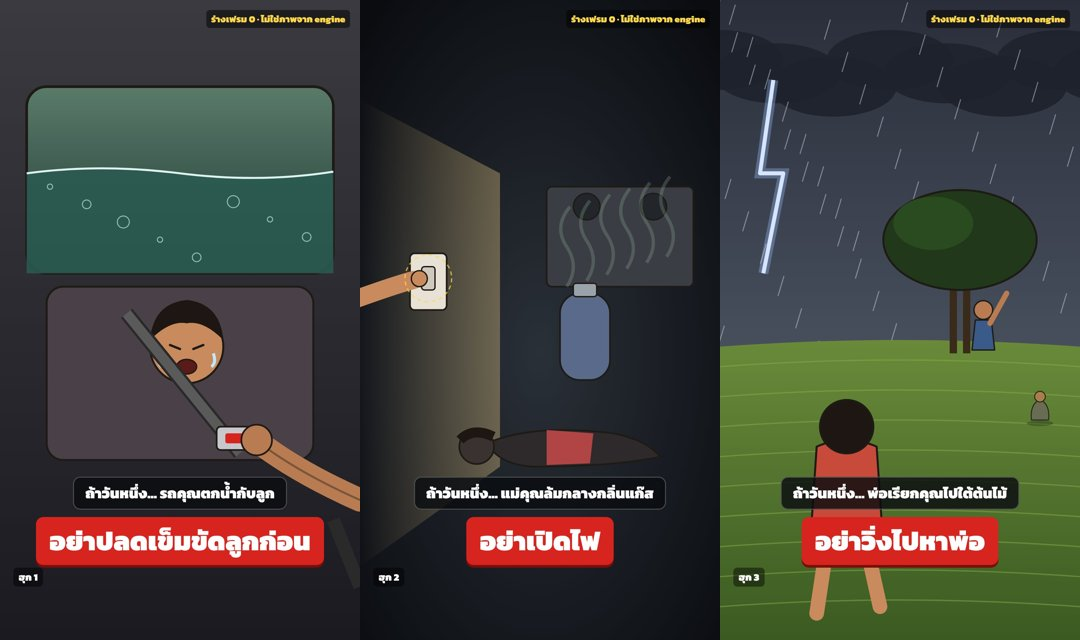
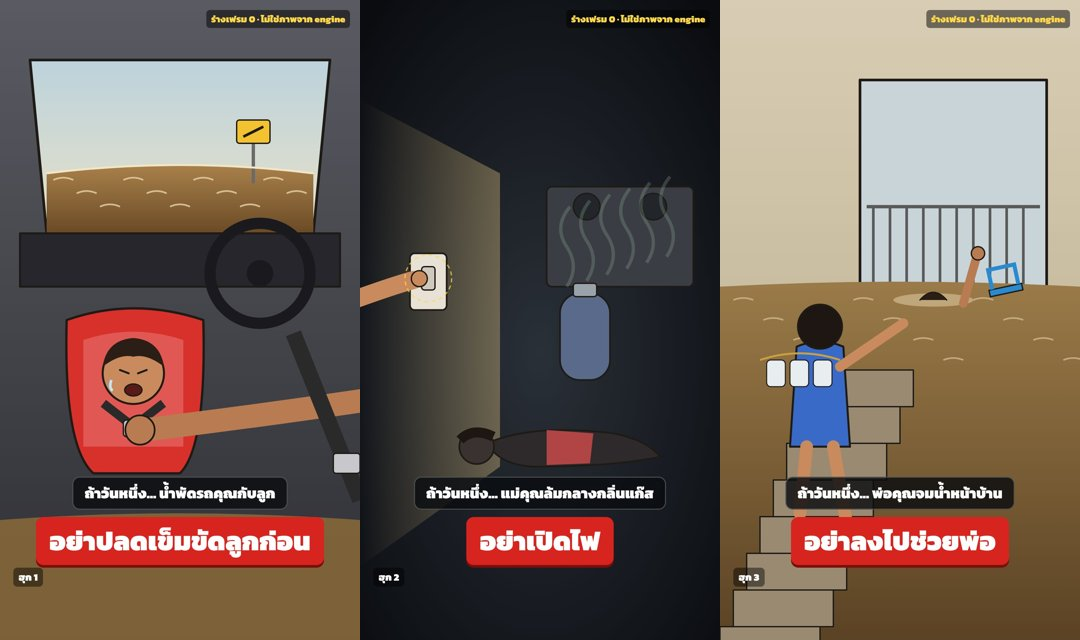
hooks 7 Nov v2: car hook moved to a daytime flash-flood road (car seat, mother driving), gas script locked off first aid, lightning replaced by father drowning in a flooded house
Claude-Session: https://claude.ai/code/session_017iwyCvx1zDsQSsZQNMKKUs

diff --git a/video/release/hooks/candidates/2026-11-07/src/frames.py b/video/release/hooks/candidates/2026-11-07/src/frames.py
@@ -21,27 +21,32 @@ html,body{{margin:0;width:1080px;height:1920px;overflow:hidden;background:#000}}
 def ln(w=4): return f'stroke="{INK}" stroke-width="{w}" stroke-linejoin="round" stroke-linecap="round"'
 
 
-# ---------------- hook 1: car into a canal — mother's hand reaching back to her son's buckle, water at the window line
-h1 = f"""<defs><linearGradient id="w" x1="0" y1="0" x2="0" y2="1"><stop offset="0" stop-color="#5a7a6a"/><stop offset="1" stop-color="#1e3a34"/></linearGradient>
-<linearGradient id="in" x1="0" y1="0" x2="0" y2="1"><stop offset="0" stop-color="#3a3a40"/><stop offset="1" stop-color="#1a1a20"/></linearGradient></defs>
-<rect width="1080" height="1920" fill="url(#in)"/>
-<!-- side window: water rising outside, bubbles -->
-<rect x="80" y="260" width="920" height="560" rx="60" fill="url(#w)" {ln(8)}/>
-<path d="M80,520Q300,490 540,520T1000,515V820H80Z" fill="#2a5a50" opacity=".9"/>
-{''.join(f'<circle cx="{150+k*110}" cy="{560+(k*53)%220}" r="{8+k%3*5}" fill="none" stroke="#bfe8de" stroke-width="3" opacity=".7"/>' for k in range(8))}
-<path d="M80,520Q300,490 540,520T1000,515" stroke="#dff4ee" stroke-width="6" fill="none"/>
-<!-- rear seat: the boy in his seat, belt across -->
-<rect x="140" y="860" width="800" height="520" rx="50" fill="#4a4048" {ln(6)}/>
-<g transform="translate(560,1040)"><circle r="110" fill="#c98a5e" {ln(6)}/><path d="M-110,-20Q-100,-130 0,-140Q100,-130 110,-20Q50,-80 0,-70Q-50,-80 -110,-20Z" fill="#1e1612"/>
-<path d="M-50,-5l30,12M50,-5l-30,12" {ln(7)}/><ellipse cy="60" rx="30" ry="22" fill="#5a1a1a" {ln(4)}/><path d="M-80,20q-10,30 6,40M80,20q10,30 -6,40" stroke="#bfe8ff" stroke-width="9" fill="none"/></g>
-<path d="M380,940L720,1360" stroke="#2a2a2a" stroke-width="44"/><path d="M380,940L720,1360" stroke="#5a5a5a" stroke-width="30"/>
-<rect x="650" y="1280" width="110" height="70" rx="12" fill="#c8c8cc" {ln(5)}/><rect x="676" y="1300" width="58" height="30" rx="6" fill="#d8241e"/>
-<!-- mother's arm reaching from the front seat to the buckle (the lure) -->
-<path d="M1080,1500Q900,1420 780,1330" stroke="#b97c52" stroke-width="70" stroke-linecap="round" fill="none"/>
-<path d="M1080,1500Q900,1420 780,1330" stroke="{INK}" stroke-width="6" fill="none" opacity=".4"/>
-<circle cx="770" cy="1320" r="46" fill="#b97c52" {ln(5)}/>
-<!-- her own belt still locked, in the foreground -->
-<path d="M1000,1560L1080,1760" stroke="#2a2a2a" stroke-width="40"/>
+# ---------------- hook 1 (v2, 6 Nov): DAYTIME flash flood on a road — brown water at the windscreen, toddler in a rear-facing car seat,
+# the mother at the wheel twisting back to the car-seat buckle while her own belt is still locked (different from นาทีก่อนจม: night canal)
+h1 = f"""<defs><linearGradient id="sky" x1="0" y1="0" x2="0" y2="1"><stop offset="0" stop-color="#bcd2dc"/><stop offset="1" stop-color="#e8e2c8"/></linearGradient>
+<linearGradient id="mud" x1="0" y1="0" x2="0" y2="1"><stop offset="0" stop-color="#a8804a"/><stop offset="1" stop-color="#6a4a26"/></linearGradient>
+<linearGradient id="cab" x1="0" y1="0" x2="0" y2="1"><stop offset="0" stop-color="#5a5a62"/><stop offset="1" stop-color="#2e2e34"/></linearGradient></defs>
+<rect width="1080" height="1920" fill="url(#cab)"/>
+<!-- windscreen: daylight, a flooded road, brown current, a road sign half under water -->
+<path d="M90,180H990L940,700H140Z" fill="url(#sky)" {ln(8)}/>
+<path d="M140,520Q540,470 940,520L940,700H140Z" fill="url(#mud)"/>
+{''.join(f'<path d="M{160+k*70},{540+(k%3)*40}q30,-14 60,0" stroke="#e8d2a8" stroke-width="5" fill="none" opacity=".8"/>' for k in range(11))}
+<g transform="translate(760,470)"><path d="M0,80V-40" stroke="#6a6a6a" stroke-width="10"/><rect x="-50" y="-110" width="100" height="70" rx="8" fill="#f2c230" {ln(4)}/><path d="M-30,-60l60,-30" stroke="{INK}" stroke-width="8"/></g>
+<path d="M140,520Q540,470 940,520" stroke="#f2e6c8" stroke-width="6" fill="none"/>
+<!-- dashboard + steering wheel (driver = mother, right-hand drive) -->
+<path d="M60,700H1020V860H60Z" fill="#26262c" {ln(6)}/>
+<circle cx="780" cy="820" r="150" fill="none" stroke="#1a1a1e" stroke-width="34"/><circle cx="780" cy="820" r="40" fill="#1a1a1e"/>
+<!-- rear-facing toddler car seat (between the front seats, seen from the driver) -->
+<g transform="translate(400,1220)"><path d="M-200,-260Q-210,120 -120,200H140Q220,120 210,-260Q0,-330 -200,-260Z" fill="#d8302a" {ln(7)}/>
+<path d="M-150,-200Q0,-250 150,-200V120H-150Z" fill="#f2a0a0" opacity=".35"/>
+<circle cy="-100" r="92" fill="#c98a5e" {ln(6)}/><path d="M-92,-120Q-80,-200 0,-206Q80,-200 92,-120Q40,-160 0,-150Q-40,-160 -92,-120Z" fill="#2a1e16"/>
+<path d="M-40,-110l26,10M40,-110l-26,10" {ln(6)}/><ellipse cy="-50" rx="26" ry="18" fill="#5a1a1a" {ln(4)}/><path d="M-66,-80q-8,24 4,32" stroke="#bfe8ff" stroke-width="8" fill="none"/>
+<path d="M-90,-10L0,60L90,-10" stroke="#2a2a2a" stroke-width="26" fill="none"/><rect x="-30" y="40" width="60" height="50" rx="10" fill="#c8c8cc" {ln(4)}/><rect x="-16" y="54" width="32" height="22" rx="4" fill="#d8241e"/></g>
+<!-- water already on the cabin floor -->
+<path d="M0,1560Q540,1520 1080,1560V1920H0Z" fill="#8a6a3a" opacity=".85"/>
+<!-- the mother's arm twisting back to the car-seat buckle (the lure) · her own belt locked across her shoulder, foreground right -->
+<path d="M1100,1200Q760,1250 430,1290" stroke="#b97c52" stroke-width="70" stroke-linecap="round" fill="none"/><circle cx="420" cy="1290" r="44" fill="#b97c52" {ln(5)}/>
+<path d="M880,1000L1080,1500" stroke="#2a2a2a" stroke-width="48"/><rect x="1000" y="1360" width="80" height="60" rx="8" fill="#c8c8cc" {ln(4)}/>
 """
 
 # ---------------- hook 2: dark kitchen, gas smell, mother on the floor, a child's hand on the light switch
@@ -64,33 +69,32 @@ h2 = f"""<defs><radialGradient id="dk" cx=".5" cy=".55" r=".7"><stop offset="0" 
 <circle cx="205" cy="835" r="70" fill="none" stroke="#ffd84a" stroke-width="4" stroke-dasharray="12 10" opacity=".7"/>
 """
 
-# ---------------- hook 3: storm over the rice field, father waving from under the lone tree
-h3 = f"""<defs><linearGradient id="st" x1="0" y1="0" x2="0" y2="1"><stop offset="0" stop-color="#2a2e3a"/><stop offset=".6" stop-color="#4a5260"/><stop offset="1" stop-color="#6a7a5a"/></linearGradient>
-<linearGradient id="rf" x1="0" y1="0" x2="0" y2="1"><stop offset="0" stop-color="#6a8a3a"/><stop offset="1" stop-color="#3a5a22"/></linearGradient></defs>
-<rect width="1080" height="1920" fill="url(#st)"/>
-<!-- clouds -->
-{''.join(f'<ellipse cx="{k*170}" cy="{180+(k%3)*40}" rx="190" ry="90" fill="#1e222c" opacity=".9"/>' for k in range(8))}
-<!-- the bolt far left -->
-<path d="M160,240L120,520L190,520L130,820" stroke="#f4f8ff" stroke-width="12" fill="none" stroke-linejoin="round"/>
-<path d="M160,240L120,520L190,520L130,820" stroke="#9ac0ff" stroke-width="30" fill="none" opacity=".35"/>
-<!-- rain -->
-{''.join(f'<path d="M{(k*53)%1080},{(k*97)%1500}l-18,60" stroke="#c8d2e0" stroke-width="3" opacity=".5"/>' for k in range(70))}
-<!-- the field -->
-<path d="M0,1040Q540,1000 1080,1040V1920H0Z" fill="url(#rf)"/>
-{''.join(f'<path d="M0,{1100+k*90}Q540,{1060+k*90} 1080,{1100+k*90}" stroke="#8aaa4a" stroke-width="4" fill="none" opacity=".5"/>' for k in range(9))}
-<!-- the lone tree on the ridge, father under it waving -->
-<g transform="translate(720,1060)"><path d="M-20,0V-260M20,0V-260" stroke="#3a2a1a" stroke-width="22"/>
-<ellipse cy="-340" rx="230" ry="150" fill="#22381a" {ln(6)}/><ellipse cx="-80" cy="-390" rx="120" ry="80" fill="#2a4a20"/>
-<g transform="translate(70,-10)"><circle cy="-120" r="28" fill="#b97c52" {ln(4)}/><path d="M-24,-90h48l10,90h-68z" fill="#3a5a8a" {ln(4)}/><path d="M20,-80L70,-170" stroke="#b97c52" stroke-width="16" stroke-linecap="round"/></g></g>
-<!-- foreground: the child's back and muddy feet, mid-step toward the tree (the lure) -->
-<g transform="translate(380,1640)"><path d="M-90,-300Q0,-340 90,-300L110,0H-110Z" fill="#c84a3a" {ln(6)}/><circle cy="-360" r="80" fill="#1e1612" {ln(6)}/>
-<path d="M-60,0L-90,200M60,0L100,180" stroke="#c98a5e" stroke-width="44" stroke-linecap="round"/></g>
-<!-- grandpa crouched far right, small, feet together (the clue) -->
-<g transform="translate(960,1260)" opacity=".85"><ellipse cy="10" rx="40" ry="8" fill="#000" opacity=".3"/><path d="M-26,0Q-30,-50 0,-60Q30,-50 26,0Z" fill="#6a6a5a" {ln(3)}/><circle cy="-70" r="16" fill="#b97c52" {ln(3)}/></g>
+# ---------------- hook 3 (v2, 6 Nov · replaces lightning): flooded house — father under the brown water by the gate, daughter on the stairs,
+# one foot already in the water (the lure: going in after him)
+h3 = f"""<defs><linearGradient id="fw" x1="0" y1="0" x2="0" y2="1"><stop offset="0" stop-color="#9a7a48"/><stop offset="1" stop-color="#5a4224"/></linearGradient>
+<linearGradient id="wl" x1="0" y1="0" x2="0" y2="1"><stop offset="0" stop-color="#d8cdb4"/><stop offset="1" stop-color="#b8aa8a"/></linearGradient></defs>
+<rect width="1080" height="1920" fill="url(#wl)"/>
+<!-- the open doorway to the street: gate, a floating plastic chair, rain-grey daylight -->
+<rect x="420" y="240" width="560" height="760" fill="#c8d4d8" {ln(8)}/>
+<path d="M440,620H960" stroke="#5a5a5a" stroke-width="10"/>{''.join(f'<path d="M{460+k*50},620V880" stroke="#5a5a5a" stroke-width="8"/>' for k in range(10))}
+<!-- the water: inside and outside, one level -->
+<path d="M0,860Q540,830 1080,860V1920H0Z" fill="url(#fw)"/>
+{''.join(f'<path d="M{40+k*90},{900+(k%4)*60}q30,-12 60,0" stroke="#d8c09a" stroke-width="5" fill="none" opacity=".7"/>' for k in range(12))}
+<g transform="translate(860,880) rotate(-12)"><path d="M-50,0h100v-20h-100z" fill="#2a8ad0" {ln(4)}/><path d="M-40,-20v-60h80v60" fill="none" stroke="#2a8ad0" stroke-width="12"/></g>
+<!-- the father: only a hand and the top of his head above the water near the gate -->
+<g transform="translate(640,900)"><ellipse rx="120" ry="20" fill="#e8d6b0" opacity=".5"/><path d="M-40,0Q0,-46 40,0" fill="#2a1e16" {ln(4)}/>
+<path d="M90,10L130,-130" stroke="#b97c52" stroke-width="26" stroke-linecap="round"/><circle cx="134" cy="-140" r="20" fill="#b97c52" {ln(4)}/></g>
+<!-- the stairs down into the water, the daughter halfway, one foot in -->
+{''.join(f'<path d="M{0+k*40},{1880-k*110}h300v110h-300z" fill="#9a8a72" {ln(4)}/>' for k in range(8))}
+<g transform="translate(300,1300)"><path d="M-70,-260Q0,-290 70,-260L90,40H-90Z" fill="#3a6ac8" {ln(6)}/><circle cy="-320" r="66" fill="#1e1612" {ln(6)}/>
+<path d="M-40,40L-60,240M40,40L90,330" stroke="#c98a5e" stroke-width="38" stroke-linecap="round"/>
+<path d="M60,-200L250,-330" stroke="#c98a5e" stroke-width="30" stroke-linecap="round"/></g>
+<!-- the clue: empty gallons tied with a rope on the stair rail (ยาย's habit) -->
+<g transform="translate(140,1080)">{''.join(f'<rect x="{k*70}" y="0" width="56" height="80" rx="12" fill="#e8eef0" {ln(3)}/>' for k in range(3))}<path d="M-20,0Q100,-40 220,0" stroke="#c8a040" stroke-width="6" fill="none"/></g>
 """
 
-for i, (body, c1, cmd) in enumerate([(h1, "ถ้าวันหนึ่ง… รถคุณตกน้ำกับลูก", "อย่าปลดเข็มขัดลูกก่อน"),
+for i, (body, c1, cmd) in enumerate([(h1, "ถ้าวันหนึ่ง… น้ำพัดรถคุณกับลูก", "อย่าปลดเข็มขัดลูกก่อน"),
                                       (h2, "ถ้าวันหนึ่ง… แม่คุณล้มกลางกลิ่นแก๊ส", "อย่าเปิดไฟ"),
-                                      (h3, "ถ้าวันหนึ่ง… พ่อเรียกคุณไปใต้ต้นไม้", "อย่าวิ่งไปหาพ่อ")], 1):
+                                      (h3, "ถ้าวันหนึ่ง… พ่อคุณจมน้ำหน้าบ้าน", "อย่าลงไปช่วยพ่อ")], 1):
     open(os.path.join(OUT, f"hook{i}.html"), "w").write(page(body, c1, cmd, "ฮุก " + str(i)))
 print("ok")

diff --git a/video/release/hooks/candidates/2026-11-07/hooks.md b/video/release/hooks/candidates/2026-11-07/hooks.md
@@ -8,24 +8,33 @@
   - รอบแรกประโยคเปิดยาวเกิน (คำสั่งตกที่ 3.3–3.8 วิ) จึงย่อประโยคแล้วอัดวัดใหม่
   - ค่าอัดวัดเวลา ≈ $0.12
 - **ภาพ:** `hook1.jpg`–`hook3.jpg` เป็นร่างเฟรม 0 ขนาด 1080×1920 วาดด้วย SVG ไม่ใช่ภาพจาก engine · ชีตรวม `sheet-360x640.jpg` · โค้ด `src/frames.py`
-- **สัดส่วนหัวข้อ:** น้ำ 1 (รถตกน้ำ) · ภัยไทยมีคนแก่หรือตำนานห่อ 2 (แก๊สรั่ว · ฟ้าผ่า)
-  - ด่าน 6 พ.ย. เป็นเรื่องน้ำทั้ง 3 ตัว ภาพรวมสองวันจึงเป็นน้ำ 4/6
+- **ฉบับ v2 (6 พ.ย. หลังผู้ประสานงานให้ความเห็น):**
+  - ฮุก 1 ย้ายฉากเป็นน้ำป่าพัดรถบนถนนกลางวัน แม่เป็นคนขับ ลูกนั่งคาร์ซีท ให้ต่างจากนาทีก่อนจม (คลองกลางคืน)
+  - ฮุก 2 ล็อกให้บทไม่สอนปฐมพยาบาลคนหมดสติ
+  - ฮุก 3 เปลี่ยนจากฟ้าผ่าเป็นพ่อจมน้ำท่วมหน้าบ้าน ซึ่งเป็นเรื่องน้ำ (ฟ้าผ่าซ้อนกับต้นตะเคียน และแหล่งอ่อน)
+- **สัดส่วนหัวข้อ:** น้ำ 2 (น้ำพัดรถ · น้ำท่วมบ้าน) · ภัยไทยมีคนแก่ห่อ 1 (แก๊สรั่ว) ตามกฎน้ำ 70%
 - **ไม่ซ้ำแบบหักมุม:** แต่ละตัวใช้หักมุมจากคนคนละแบบ
   - รถตกน้ำ = ฝีมือลับของคนแก่
   - แก๊ส = โทรศัพท์จากแม่
-  - ฟ้าผ่า = ความลับของคนแก่ที่เป็นเหตุของรอยแผลพ่อ
+  - น้ำท่วมบ้าน = คนในครอบครัวที่ถูกไล่ออกจากบ้านกลับมา
   - ไม่มีตัวไหนใช้ "ญาติตายเมื่อสามสิบปีก่อน" ซ้ำกับเรื่องหนวดใสและคลื่นดึง
 
 ---
 
-## ฮุก 1 · รถตกคลอง (แนะนำเป็นตัวหลัก)
-- **ฮุก:** "ถ้าวันหนึ่ง… รถคุณตกน้ำกับลูก" + **{อย่าปลดเข็มขัดลูกก่อน}**
-  - คำสั่งเริ่มที่ **2.50 วิ** · ยาว 1.53 วิ
+## ฮุก 1 · น้ำป่าพัดรถกลางวัน (แนะนำเป็นตัวหลัก)
+- **ฮุก:** "ถ้าวันหนึ่ง… น้ำพัดรถคุณกับลูก" + **{อย่าปลดเข็มขัดลูกก่อน}**
+  - คำสั่งเริ่มที่ **2.85 วิ** · ยาว 1.53 วิ · ประโยคเปิด CER 0.00
+  - **ต่างจากนาทีก่อนจม (ลงคลิปยาว 11 พ.ย.):**
+    - เวลากลางวัน บนถนนที่น้ำป่าไหลข้าม ไม่ใช่คลองกลางคืน
+    - แม่เป็นคนขับ ลูกเป็นเด็กเล็กในคาร์ซีทหันหลัง
+    - EP.1 เริ่มจากแม่ตัดสินใจขับผ่านน้ำไหล (ความรู้ "การขับรถผ่านน้ำ" หน้า 31) ไม่ใช่ GPS พาตกคลอง
+    - ความรู้ทุบกระจกด้วยก้านพนักพิงซ้ำกับนาทีก่อนจม จึงย้ายไปไว้ EP.2 และให้ภาพเล่าแทนบท
 - **ใครรักใคร · คำสั่งขัดกับอะไร:** แม่รักลูกชายที่ร้องอยู่เบาะหลัง · ขัดกับสัญชาตญาณของแม่ที่จะหันไปปลดเข็มขัดลูกก่อนตัวเอง
 - **เฟรม 0 (ของล่อใจ):**
-  - น้ำขึ้นถึงครึ่งกระจกข้าง ลูกร้องไห้อยู่ในเข็มขัด
-  - มือแม่เอื้อมจากเบาะหน้าไปที่หัวเข็มขัดของลูก ส่วนเข็มขัดของแม่เองยังล็อกอยู่ตรงหน้ากล้อง
-- **ห่อด้วยความเชื่อ:** สะพานไม้ข้ามคลองหน้าศาลเจ้าพ่อ ยายบอกให้บีบแตรขอทางทุกครั้ง ส่วน GPS พาไปทางลัดใหม่ที่ "ไม่ผ่านศาล"
+  - กระจกหน้าเห็นถนนกลางวันที่น้ำป่าสีโคลนไหลข้าม และป้ายจราจรจมครึ่งต้น
+  - ลูกร้องไห้ในคาร์ซีทหันหลัง แขนแม่บิดจากที่นั่งคนขับไปที่หัวเข็มขัดคาร์ซีท
+  - เข็มขัดของแม่เองยังล็อกอยู่ตรงหน้ากล้อง และน้ำเข้ามาที่พื้นรถแล้ว
+- **ห่อด้วยความเชื่อ:** ถนนเลียบห้วยหน้าศาลเจ้าพ่อ ยายบอกว่า "น้ำแดงข้ามถนน เจ้าพ่อห้ามผ่าน" แต่แม่รีบไปรับงานในเมือง
 - **กลอนของยาย:** "รถลงน้ำ อย่าร่ำร้อง ปลดตัวเองก่อนน้อง / ประตูไม่ไป กระจกข้างใช้ / สูดลมให้เต็ม ดันเด็กออกก่อน"
 - **ทางเลือกที่เจ็บแต่ละตอน (HG2):**
   - **EP.1:** แม่ต้องปล่อยมือจากเข็มขัดของลูก เพื่อปลดของตัวเองก่อน ขณะลูกร้อง "แม่!"
@@ -45,6 +54,7 @@
 - **HG7:** การ์ดกดติดตาม 1 วิ ตอนกลอนท่อน "กระจกข้างใช้" โผล่
 - **ความรู้:**
   - ✔ กรมควบคุมโรค "หลักสูตรป้องกันการจมน้ำสำหรับประชาชนทั่วไป" (ต.ค. 2566) หน้า 33 "รถจมน้ำ" — https://ddc.moph.go.th/uploads/publish/1466920231016040713.pdf
+    - หน้า 31 "การขับรถผ่านน้ำ": "ระดับน้ำที่จะขับผ่านได้คือ ประมาณไม่เกินครึ่งล้อ ควรระมัดระวังเป็นพิเศษกับน้ำไหล น้ำที่ไหลแรง เช่น น้ำท่วมอย่างฉับพลัน หรือกระแสน้ำไหลอย่างต่อเนื่อง อาจทำให้รถยนต์ทุกประเภทเกิดความเสียหายได้"
     - "เมื่อรถตกลงไปในน้ำ จะมีเวลาราว ๆ 1 - 2 นาทีก่อนที่รถจะจมลงไปทั้งคัน"
     - "…ให้เริ่มปลดเข็มขัดนิรภัย ปลดล็อกประตูทุกบาน โดยปลดเข็มขัดนิรภัยของตัวเองออกก่อนเสมอ ก่อนไปช่วยเหลือคนอื่นต่อในรถ"
     - "หากเปิดประตูไม่ได้ ผู้ขับขี่ต้องออกจากรถทางหน้าต่าง"
@@ -83,48 +93,59 @@
     - "…ให้รีบติดต่อสายด่วน 199 ศูนย์รับแจ้งเหตุอัคคีภัย"
   - ข้อจำกัด
     - ต้นฉบับไม่ได้เขียนคำว่า "สวิตช์ไฟ" ตรงตัว แต่สวิตช์คืออุปกรณ์ไฟฟ้า บทจะพูดตามต้นฉบับว่า "ห้ามใช้อุปกรณ์ไฟฟ้าทุกชนิด"
-    - ยังไม่มีแหล่งทางการเรื่องการปฐมพยาบาลคนที่หมดสติจากแก๊ส บทจึงจบที่ "ระบายอากาศ แล้วโทรขอความช่วยเหลือจากข้างนอก" เท่านั้น ต้องหาแหล่งเพิ่มก่อนเขียน EP.2
+    - **ล็อกแล้ว (v2): บทไม่สอนปฐมพยาบาลคนหมดสติจากแก๊ส** สอนแค่ 3 ข้อตามต้นฉบับ (ปิดวาล์ว · เปิดประตูหน้าต่าง · ห้ามใช้อุปกรณ์ไฟฟ้า) แล้วโทรขอความช่วยเหลือจากนอกบ้าน
+    - ค้นเพิ่ม 6 พ.ย. แล้วยังไม่เจอ: หน้าอนามัยมีเดียเรื่องเครื่องทำน้ำอุ่นแก๊สตอบ 503 ทั้ง 2 หน้า · PDF กรมควบคุมโรค (สอบสวนเหตุที่เชียงใหม่ 2561) เป็นรายงานเหตุ ไม่ใช่คำแนะนำ
+    - สายด่วนที่ต้นฉบับ ปภ. ให้ไว้คือ 199 (อัคคีภัย) ห้ามใส่ 1669 ในบทจนกว่าจะมีแหล่ง
     - หน้าอนามัยมีเดียเรื่องเครื่องทำน้ำอุ่นแก๊สตอบ 503
 
-## ฮุก 3 · ฟ้าผ่ากลางทุ่ง (ตัวที่ 3)
-- **ฮุก:** "ถ้าวันหนึ่ง… พ่อเรียกคุณไปใต้ต้นไม้" + **{อย่าวิ่งไปหาพ่อ}**
-  - คำสั่งเริ่มที่ **2.98 วิ** · ยาว 1.26 วิ
-  - ประโยคเปิดไม่มีคำว่าฟ้าผ่า ภาพต้องบอกเอง: ฟ้าแลบ ฝน ทุ่งโล่ง
-- **ใครรักใคร · คำสั่งขัดกับอะไร:** ลูกรักพ่อที่โบกมือเรียกให้มาหลบฝนใต้ต้นไม้ใหญ่ · ขัดกับสัญชาตญาณวิ่งไปหาพ่อ และพ่อคือคนที่ลูกเชื่อฟังที่สุด
+## ฮุก 3 · พ่อจมน้ำท่วมหน้าบ้าน (ตัวที่ 3 · มาแทนฟ้าผ่า)
+- **ฮุก:** "ถ้าวันหนึ่ง… พ่อคุณจมน้ำหน้าบ้าน" + **{อย่าลงไปช่วยพ่อ}**
+  - คำสั่งเริ่มที่ **2.62 วิ** · ยาว 1.28 วิ · คำสั่ง CER 0.00
+- **ใครรักใคร · คำสั่งขัดกับอะไร:** ลูกสาวรักพ่อที่จมอยู่ตรงประตูรั้ว · ขัดกับสัญชาตญาณลุยลงน้ำไปดึงพ่อขึ้น
 - **เฟรม 0:**
-  - หลังเด็กกำลังก้าวไปทางต้นไม้กลางทุ่ง พ่อโบกมืออยู่ใต้ต้นไม้ ฟ้าแลบด้านซ้าย
-  - เบาะแส: ตาตัวเล็กๆ นั่งยองอยู่กลางนาทางขวา
-- **ห่อด้วยตำนาน:** ต้นมะขามกลางนาเป็นที่อยู่ของ "ผีฟ้า" ทุกคนหัวเราะตาที่วิ่งออกไปนั่งยองกลางนาทุกครั้งที่ฟ้าร้อง
+  - บ้านน้ำท่วมสีโคลน ประตูเปิดออกไปเห็นรั้ว พ่อเหลือแค่มือกับหัวโผล่น้ำข้างรั้ว
+  - ลูกสาวอยู่บนบันได เท้าข้างหนึ่งจุ่มน้ำแล้ว
+  - เบาะแส: แกลลอนเปล่าผูกเชือกห้อยที่ราวบันได
+- **ทับกับเรื่องเก่า (บอกตรงๆ):**
+  - คำสั่งแนวเดียวกับนาทีก่อนจม EP.3 "อย่ากระโดดลงไปช่วย" (64K ซึ่งเป็นแบบที่ HG1 ยกว่าได้ผล)
+  - ต่างกันตรงที่เป็นลูกช่วยพ่อในบ้านตัวเอง ไม่ใช่ผู้ใหญ่ช่วยเด็กในคลอง
+  - แกลลอนผูกเชือกคล้ายเรื่องลอยกระทง EP.2 (แกลลอนน้าหมาน) ถ้าผู้ประสานงานเห็นว่าซ้ำ เปลี่ยนเป็นเชือก/ผ้าขาวม้า (ยื่น) ได้ เพราะต้นฉบับมีให้
+- **ห่อด้วยความเชื่อ:** ยายผูกแกลลอนกับเชือกไว้ที่ราวบันไดทุกหน้าน้ำ แล้วท่อง "ตะโกน โยน ยื่น อย่าตื่นลงน้ำ" ทุกคนหาว่ายายเลอะ
 - **ทางเลือกที่เจ็บแต่ละตอน (HG2):**
-  - **EP.1:** ลูกต้องยืนตากฝนอยู่ที่เดิมทั้งที่พ่อเรียก และพ่อตะโกนว่า "ดื้อ!"
-  - **EP.2:** ต้นไม้โดนฟ้าผ่า พ่อล้มอยู่ใต้ต้น ลูกต้องเลือกว่าจะวิ่งไปหาพ่อตอนนี้ หรือรอ
-- **ปมในครอบครัว (EP.1):** พ่อไม่คุยกับตามาสิบปี เพราะอายที่ตาเป็น "คนบ้าผีฟ้า" ของหมู่บ้าน
-- **หักมุมจากคน (HG3) · ความลับของตา:**
-  - รอยแผลบนหลังพ่อที่พ่อเชื่อว่าโดนน้ำร้อนลวกตอนเด็ก ที่จริงเกิดใต้ต้นมะขามต้นเดียวกันนี้
-  - วันนั้นตาเป็นคนเรียกลูกชายวัยเจ็ดขวบไปหลบฝนใต้ต้นไม้
-  - ตาไม่เคยยกโทษให้ตัวเอง จึงแต่งเรื่องผีฟ้าเพื่อไม่ให้ใครไปยืนตรงนั้นอีก
-  - ไม่มีใครตายในอดีต ไม่ซ้ำกับเรื่องหนวดใส
+  - **EP.1:** ลูกต้องยืนบนบันไดตะโกนแล้วโยนแกลลอน ทั้งที่พ่อจมอยู่ห่างไปไม่กี่เมตร
+  - **EP.2:** แกลลอนไปไม่ถึง เชือกสั้นไป ลูกต้องเลือกระหว่างลงน้ำไปเอง กับโยนแกลลอนใบที่สองที่ไม่มีเชือก
+- **ปมในครอบครัว (EP.1):**
+  - พ่อไล่ลูกชายคนโตออกจากบ้านเมื่อปีก่อน ("ไปเลย ไม่ต้องกลับมา") เพราะลูกชายไปเป็นอาสากู้ภัยแทนเรียนต่อ
+  - วันนี้พ่อลุยน้ำออกไปยกมอเตอร์ไซค์ของลูกชายที่ยังจอดทิ้งไว้ แล้วตกท่อระบายน้ำที่มองไม่เห็นใต้น้ำ
+- **หักมุมจากคน (HG3) · คนที่ถูกไล่ออกจากบ้านกลับมา:**
+  - เรือกู้ภัยที่เลี้ยวเข้าซอยตามเสียงตะโกน คือพี่ชายที่พ่อไล่ไป
+  - พี่ชายรู้ว่าบ้านไหนน้ำลึก เพราะขับเรือผ่านหน้าบ้านทุกวันตั้งแต่น้ำมา แต่ไม่กล้าแวะ
 - **เบาะแส:**
-  - ตานั่งยองกลางนาทุกครั้งที่ฝนตก
-  - พ่อถอดเสื้อแล้วเห็นแผลเป็นลายเส้นแตกกิ่ง (ภาพเท่านั้น ห้ามบอกในบทว่าเป็นแผลจากฟ้าผ่าจนกว่าจะมีแหล่ง)
-  - ตาไม่เคยเดินผ่านต้นมะขาม
-- **HG7:** การ์ดกดติดตามตอนกลอนข้อถัดไปโผล่
+  - มอเตอร์ไซค์ที่จอดคลุมผ้าไว้หน้าบ้าน
+  - เสื้อกู้ภัยสีส้มในรูปที่แม่ซ่อนไว้
+  - เสียงเรือผ่านหน้าบ้านทุกเช้าที่ลูกสาวชะโงกดู
+- **HG7:** การ์ดกดติดตามตอนกลอนท่อน "ยื่น" โผล่ (EP.2)
 - **ความรู้:**
-  - ✔ สคร.6 กรมควบคุมโรค "สคร.6 เตือนประชาชนระวังพายุฤดูร้อน แนะไม่อยู่ในพื้นที่โล่งแจ้งหลีกเลี่ยงอยู่ใต้ต้นไม้สูงใหญ่… และระมัดระวังฟ้าผ่า" (18 มี.ค. 2568) — https://ddc.moph.go.th/odpc6/news.php?news=51039&deptcode=odpc6
-    - "ไม่อยู่ใกล้ต้นไม้สูง เสาไฟฟ้า ป้ายโฆษณา ควรหลบในตัวอาคารที่มีความมั่นคง"
-    - "ควรหลบในอาคาร ที่ติดตั้งสายล่อฟ้า จะช่วยป้องกันอันตรายจากฟ้าผ่าได้"
-    - "ไม่ควรออกจากบ้านขณะฝนตกฟ้าคะนอง อาจเสี่ยงโดนฟ้าผ่าได้"
-  - ⚠ เหตุผลเรื่องต้นไม้ในต้นฉบับคือ "อาจเกิดการหักโค่นหรือหล่นทับ" ส่วนคำเรื่องฟ้าผ่าอยู่ในหัวข่าว
-    - ท่านั่งยองเท้าชิดกับเรื่อง "ร่างกายผู้ถูกฟ้าผ่าไม่มีไฟค้าง" ยังไม่ได้เปิดต้นฉบับ (หน้าอนามัยมีเดียตอบ 503)
-    - ต้องหาแหล่งเพิ่มก่อนเขียนบท ตัวนี้จึงเป็นอันดับ 3
+  - ✔ กรมควบคุมโรค หลักสูตรป้องกันการจมน้ำ (ต.ค. 2566) บทที่ 1 ข้อ 3 และบทที่ 2 "ทักษะการช่วยเหลือผู้ประสบภัยทางน้ำ" — https://ddc.moph.go.th/uploads/publish/1466920231016040713.pdf
+    - "การช่วยคนตกน้ำ จมน้ำ โดยใช้อุปกรณ์ เพราะการลงน้ำไปช่วยจะทำให้คนที่ลงไปช่วยถูกกอดรัดและจมน้ำไปพร้อมกัน"
+    - "ตะโกน เรียกให้ผู้ที่อยู่ใกล้เคียงได้ยิน และเข้ามาให้การช่วยเหลือ"
+    - "โยน อุปกรณ์ที่ลอยน้ำได้ หาง่าย และอยู่ใกล้ตัว เพื่อช่วยคนตกน้ำ เช่น ถังแกลลอนพลาสติกเปล่าผูกเชือก ขวดน้ำดื่มพลาสติกเปล่า"
+    - "โยนพร้อมกัน ครั้งละหลายๆ ใบ เพื่อเพิ่มโอกาสให้คนตกน้ำสามารถจับอุปกรณ์ได้"
+    - "ยื่น อุปกรณ์ที่หาง่ายและอยู่ใกล้ตัวช่วยคนตกน้ำ เช่น เชือก กิ่งไม้ ผ้าขาวม้า"
+  - ⚠ เรื่องท่อระบายน้ำหรือหลุมใต้น้ำท่วมเป็นฉากในเรื่อง บทไม่สอนเป็นความรู้จนกว่าจะมีแหล่ง
+
+## ฟ้าผ่า (ตกรอบ v2)
+- ซ้อนกับต้นตะเคียน (ลงคลิปยาว 9 พ.ย.) และแหล่งอ่อน: เหตุผลเรื่องต้นไม้ในต้นฉบับคือกิ่งหล่นทับ คำว่าฟ้าผ่าอยู่แค่ในหัวข่าว
+- ไอเดียความลับของตา (แผลบนหลังพ่อ) เก็บไว้ใช้กับเรื่องอื่นได้
 
 ---
 
 ## สรุปของโต๊ะเรื่อง
 | # | ฮุก | คำสั่งเริ่มที่ | HG1 | หักมุมจากคน | ความรู้ |
 |---|---|---|---|---|---|
-| 1 | รถตกคลอง {อย่าปลดเข็มขัดลูกก่อน} | 2.50 วิ | แม่ vs ลูกในเข็มขัด | ฝีมือลับของยาย | ✔ ครบ (กรมควบคุมโรค 2566 หน้า 33) |
-| 2 | แก๊สรั่ว {อย่าเปิดไฟ} | 2.76 วิ | ลูก vs แม่ที่ล้มในความมืด | โทรศัพท์จากแม่ | ✔ ฮุก · ⚠ ปฐมพยาบาล EP.2 |
-| 3 | ฟ้าผ่า {อย่าวิ่งไปหาพ่อ} | 2.98 วิ | ลูก vs พ่อที่เรียก | ความลับของตา | ✔ บางส่วน · ⚠ ท่าหลบ |
+| 1 | น้ำพัดรถกลางวัน {อย่าปลดเข็มขัดลูกก่อน} | 2.85 วิ | แม่ vs ลูกในคาร์ซีท | ฝีมือลับของยาย | ✔ ครบ (กรมควบคุมโรค 2566 หน้า 31, 33) |
+| 2 | แก๊สรั่ว {อย่าเปิดไฟ} | 2.76 วิ | ลูก vs แม่ที่ล้มในความมืด | โทรศัพท์จากแม่ | ✔ ฮุก · บทไม่สอนปฐมพยาบาล |
+| 3 | พ่อจมน้ำท่วมหน้าบ้าน {อย่าลงไปช่วยพ่อ} | 2.62 วิ | ลูกสาว vs พ่อที่จม | พี่ชายที่ถูกไล่ออกจากบ้าน | ✔ ครบ (กรมควบคุมโรค 2566 ตะโกน โยน ยื่น) |
 
-- **แนะนำ:** 1 เป็นตัวหลัก (คำสั่งตรงกับต้นฉบับทุกคำ และเจ็บที่สุด) · 2 เป็นตัวสำรอง · 3 เป็นอันดับสาม
+- **แนะนำ:** 1 เป็นตัวหลัก (คำสั่งตรงกับต้นฉบับทุกคำ และเจ็บที่สุด) · 3 เป็นตัวสำรอง (น้ำ) · 2 เป็นอันดับสาม
+- ค่าอัดวัดเวลารวมทั้งสองรอบ ≈ $0.17
